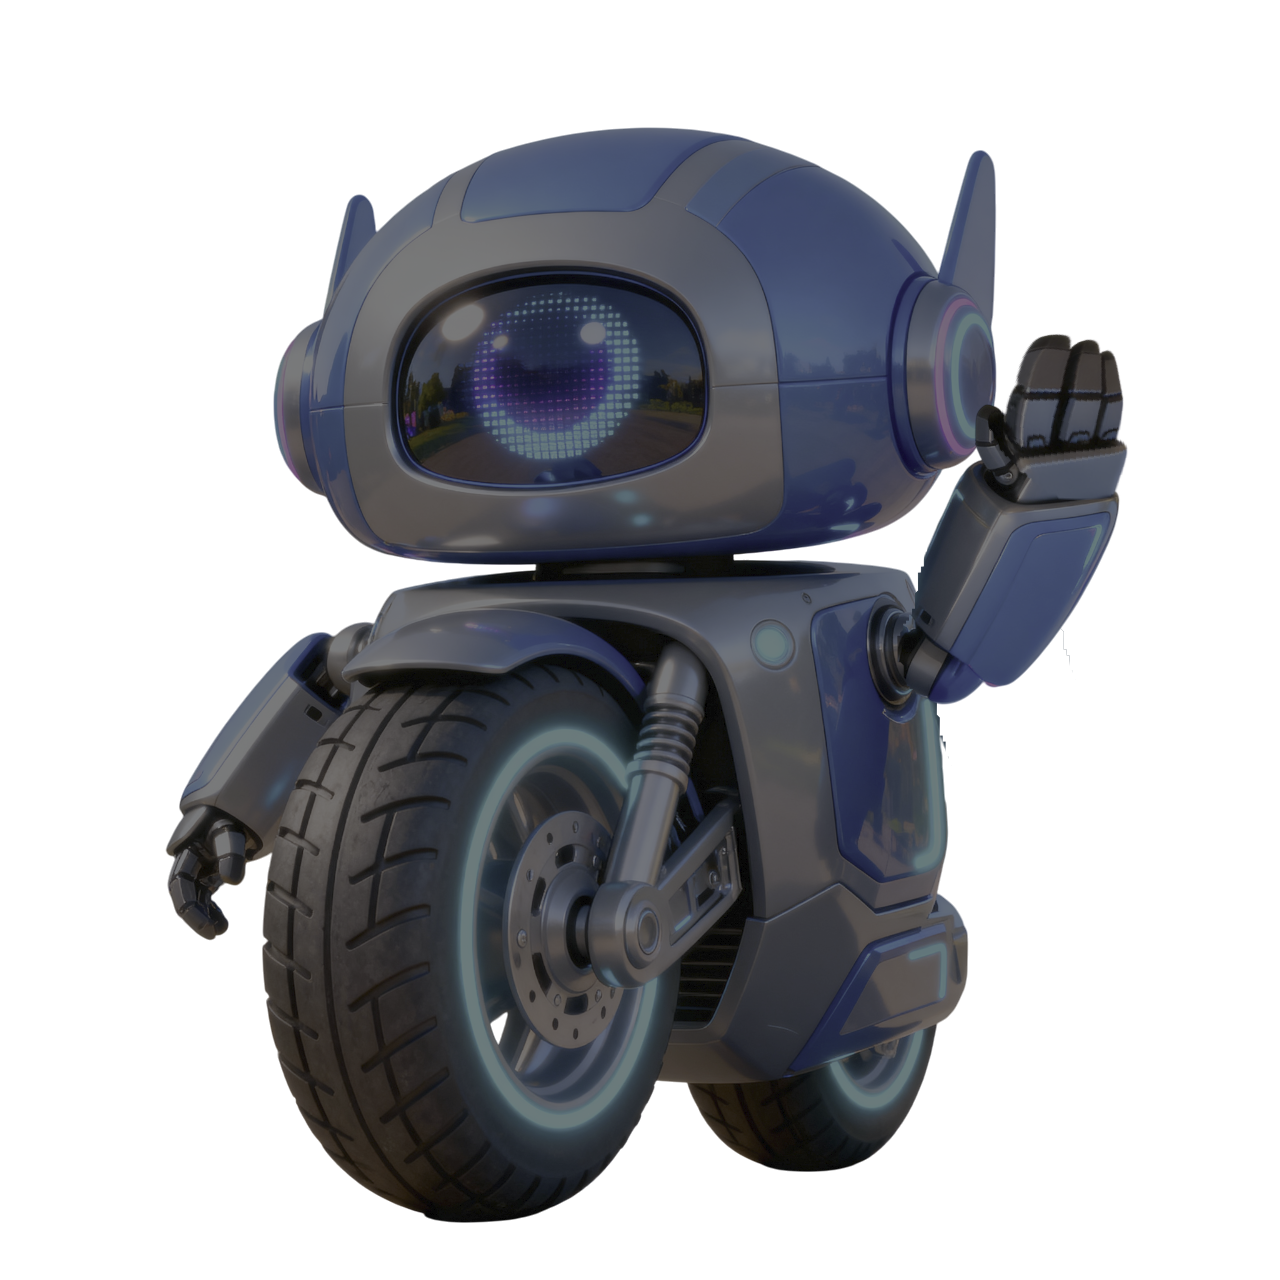
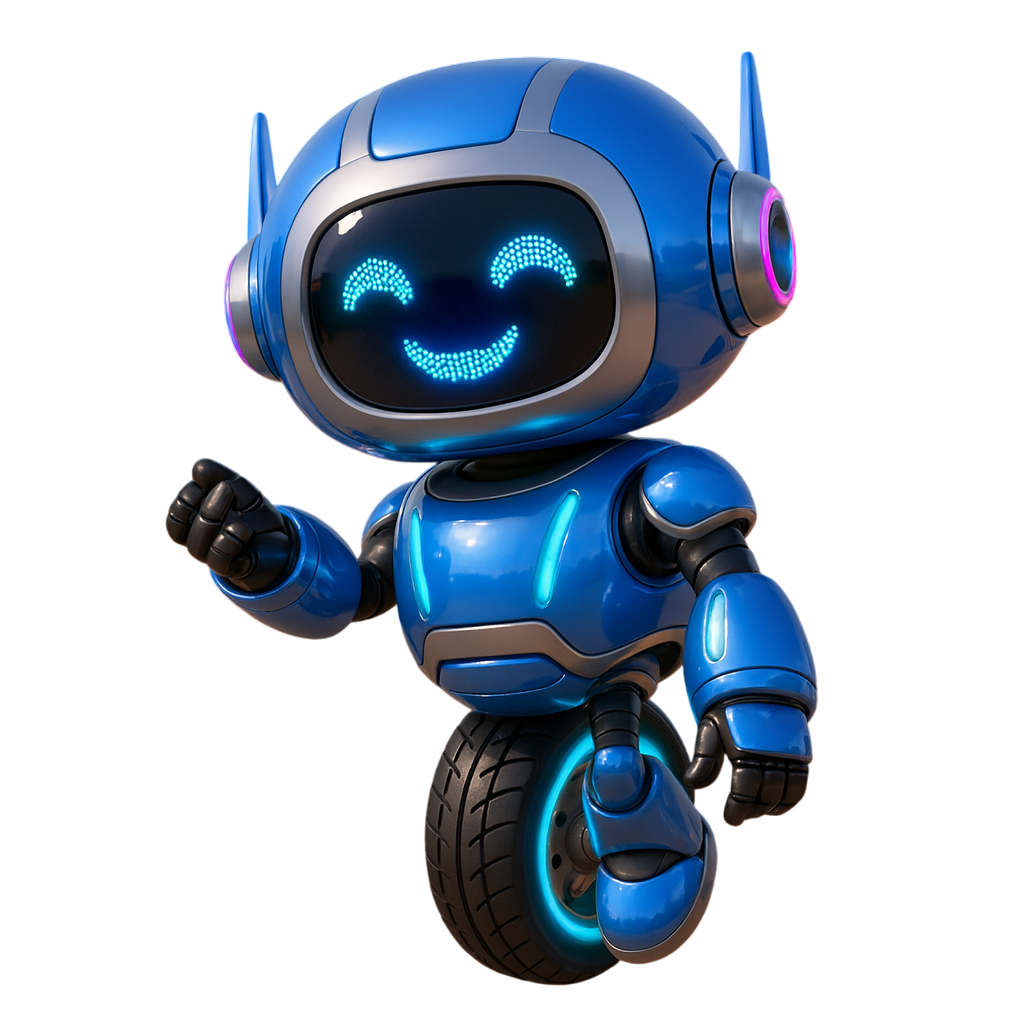
fix(ui): fixed event sequence when closing the feedPost and reset the visibility of the boh

diff --git a/style.css b/style.css
@@ -431,7 +431,7 @@ button {
     transform: translateY(0);
   }
   50% {
-    transform: translateY(-10px);
+    transform: translateY(-20px);
   }
   100% {
     transform: translateY(0);
@@ -442,11 +442,11 @@ button {
 @keyframes bohHoloAparecer {
   0% {
     opacity: 0;
-    transform: translateY(20px) scale(0.95);
+    transform: translateY(20px) scale(0.9);
   }
   100% {
     opacity: 1;
-    transform: translateY(0) scale(1);
+    transform: translateX(-150px) scale(1);
   }
 }
 
@@ -465,35 +465,36 @@ button {
 
 /* Quando o BOH vai sumir */
 #boh-container.boh-hide {
-  animation: bohAccelerate 0.5s cubic-bezier(0.3, 0, 1, 1) forwards;
+  animation: bohAccelerate 0.4s cubic-bezier(0.3, 0, 1, 1) forwards;
 }
 
 /* Animação completa */
 @keyframes bohAccelerate {
   0% {
     transform: translate(0) rotate(-1deg) scale(1);
-    opacity: 8;
+    opacity: 25;
     filter: blur(0px);
   }
 
   /* Começando a acelerar */
   60% {
-    transform: translate(-180px) rotate(10deg) scale(1.07);
-    filter: blur(1px);
+    transform: translate(-290px) rotate(1deg) scale(1.07);
+    opacity: 12;
+    filter: blur(0px);
   }
 
   /* Indo em direção ao botão + (canto inferior direito) */
   100% {
-    transform: translateX(-650px) rotate(0deg) scale(1.1);
+    transform: translateX(-650px) rotate(20deg) scale(1.1);
     opacity: 0;
     filter: blur(6px);
   }
 }
 
 /* Holograma desaparecendo suavemente */
-#boh-holograma.boh-hide {
+.boh-holo.boh-hide {
   opacity: 0;
-  transition: opacity 0.4s ease;
+  animation: none;
 }
 
 /* Pó cósmico */

diff --git a/index.html b/index.html
@@ -74,7 +74,7 @@
               <h1 class="hero-info-title">
                 dalexan_dress@outlook.com</h1>
               <a>
-                <img alt="Back" class="hero-size-icons-feed" src="icons/reticen.png" />
+                <img alt="Reticen" class="hero-size-icons-feed" src="icons/reticen.png" />
               </a>
             </div>
             <hr class="line" />

diff --git a/index.js b/index.js
@@ -23,6 +23,8 @@ document.addEventListener("DOMContentLoaded", () => {
   feedPost.addEventListener("click", (e) => {
     if (e.target === feedPost) {
       feedPost.classList.remove("active");
+      boh.classList.remove("boh-hide");
+      bohHolo.classList.remove("boh-hide");
     }
   });
 });
